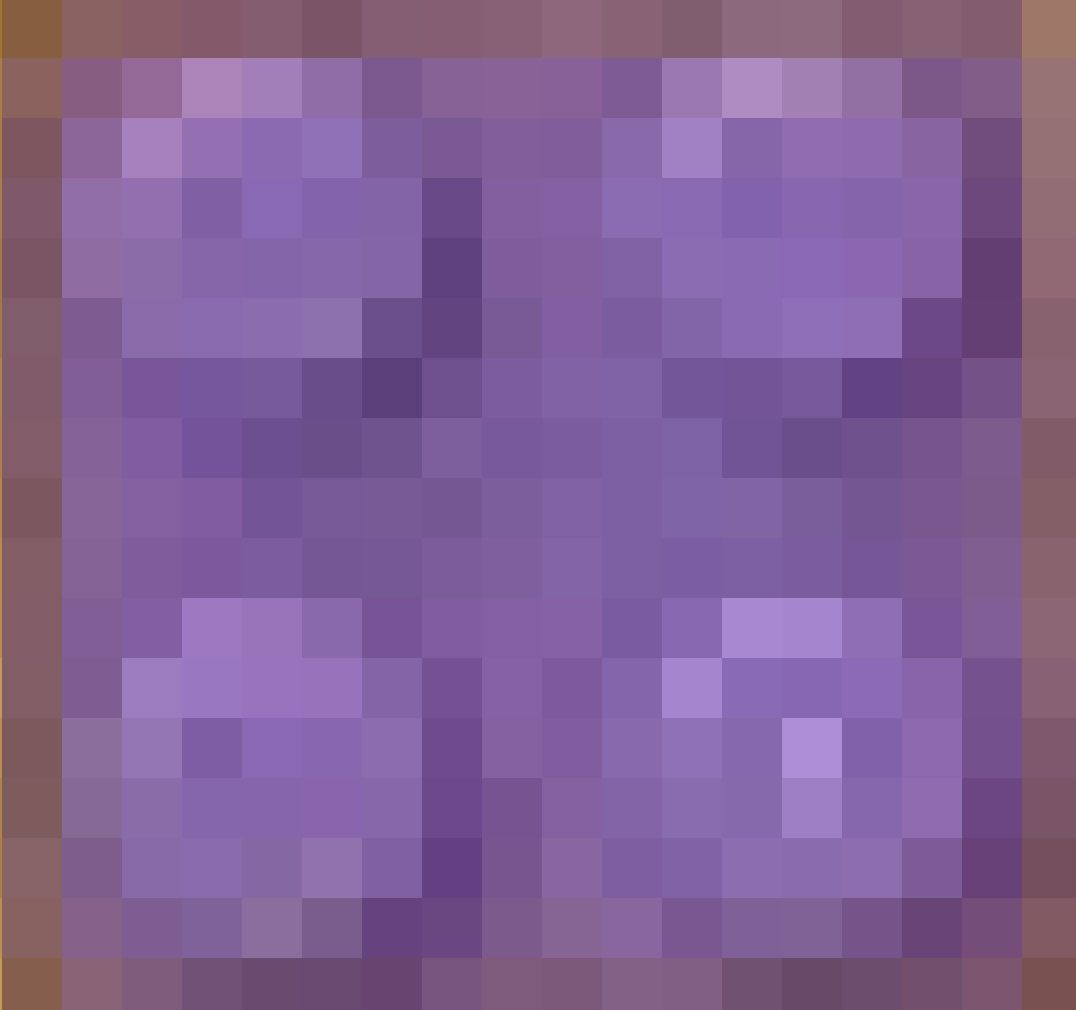
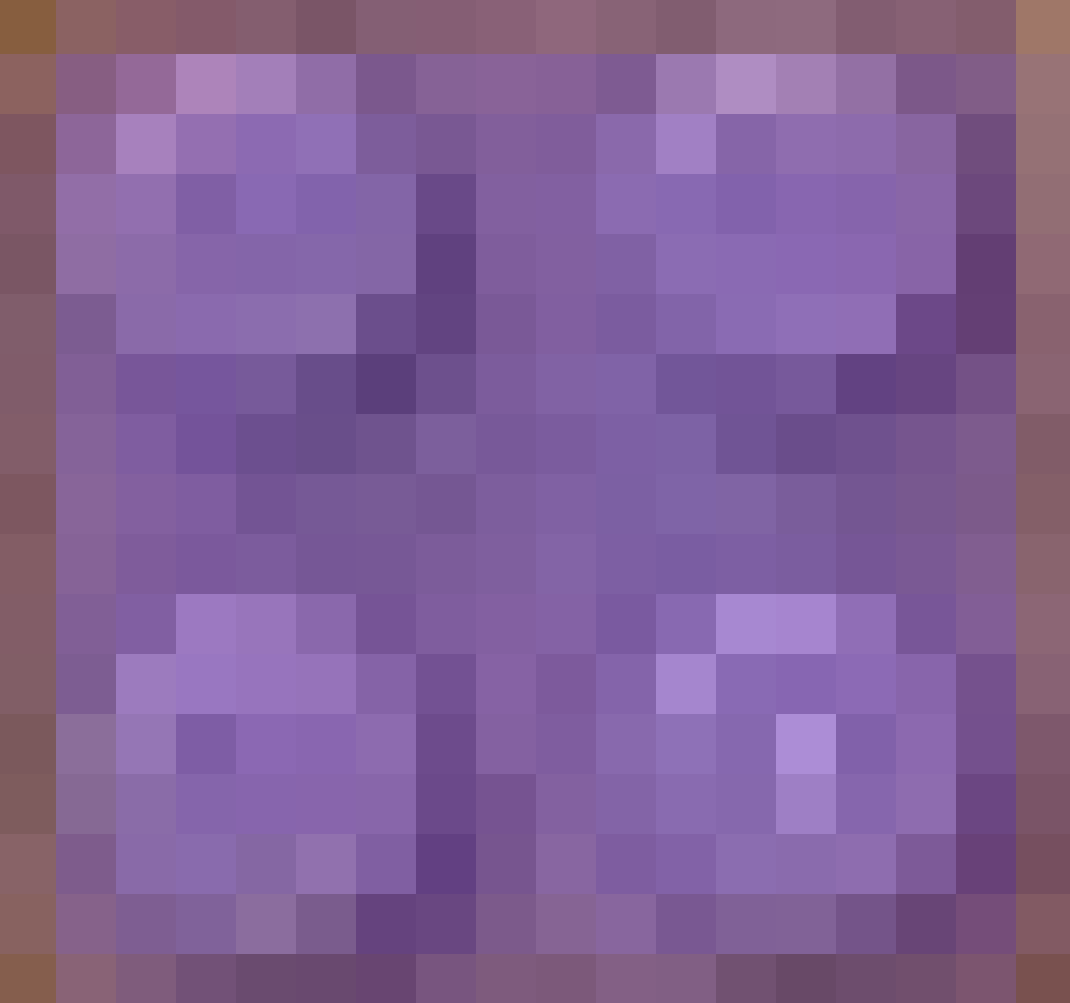
publish website with latest updates

diff --git a/docs/styles.1.css b/docs/styles.1.css
@@ -3,7 +3,7 @@
   box-sizing: border-box;
 }
 
-/* Template: ./b42.png */
+/* Template: ./b26.png */
 
 footer {
     background-color: #333;
@@ -73,7 +73,7 @@ header nav a {
 		/* Basic Styling */
 		html, body {
 			overflow-x: hidden; /* Prevent horizontal scrolling */
-            background-image: url('./b42.png');
+            background-image: url('./b26.png');
             background-size: cover; /* Ensures the image covers the entire viewport */
             background-repeat: no-repeat; /* Prevents the image from repeating */
             background-attachment: fixed; /* Optional: Keeps the background fixed while scrolling */

diff --git a/docs/styles.2.css b/docs/styles.2.css
@@ -3,7 +3,7 @@
   box-sizing: border-box;
 }
 
-/* Template: ./b31.png */
+/* Template: ./b15.png */
 
 footer {
     background-color: #333;
@@ -73,7 +73,7 @@ header nav a {
 		/* Basic Styling */
 		html, body {
 			overflow-x: hidden; /* Prevent horizontal scrolling */
-            background-image: url('./b31.png');
+            background-image: url('./b15.png');
             background-size: cover; /* Ensures the image covers the entire viewport */
             background-repeat: no-repeat; /* Prevents the image from repeating */
             background-attachment: fixed; /* Optional: Keeps the background fixed while scrolling */

diff --git a/docs/styles.3.css b/docs/styles.3.css
@@ -3,7 +3,7 @@
   box-sizing: border-box;
 }
 
-/* Template: ./b12.png */
+/* Template: ./b42.png */
 
 footer {
     background-color: #333;
@@ -73,7 +73,7 @@ header nav a {
 		/* Basic Styling */
 		html, body {
 			overflow-x: hidden; /* Prevent horizontal scrolling */
-            background-image: url('./b12.png');
+            background-image: url('./b42.png');
             background-size: cover; /* Ensures the image covers the entire viewport */
             background-repeat: no-repeat; /* Prevents the image from repeating */
             background-attachment: fixed; /* Optional: Keeps the background fixed while scrolling */

diff --git a/docs/styles.5.css b/docs/styles.5.css
@@ -3,7 +3,7 @@
   box-sizing: border-box;
 }
 
-/* Template: ./b27.png */
+/* Template: ./b12.png */
 
 footer {
     background-color: #333;
@@ -73,7 +73,7 @@ header nav a {
 		/* Basic Styling */
 		html, body {
 			overflow-x: hidden; /* Prevent horizontal scrolling */
-            background-image: url('./b27.png');
+            background-image: url('./b12.png');
             background-size: cover; /* Ensures the image covers the entire viewport */
             background-repeat: no-repeat; /* Prevents the image from repeating */
             background-attachment: fixed; /* Optional: Keeps the background fixed while scrolling */

diff --git a/docs/styles.4.css b/docs/styles.4.css
@@ -3,7 +3,7 @@
   box-sizing: border-box;
 }
 
-/* Template: ./b1.png */
+/* Template: ./b23.png */
 
 footer {
     background-color: #333;
@@ -73,7 +73,7 @@ header nav a {
 		/* Basic Styling */
 		html, body {
 			overflow-x: hidden; /* Prevent horizontal scrolling */
-            background-image: url('./b1.png');
+            background-image: url('./b23.png');
             background-size: cover; /* Ensures the image covers the entire viewport */
             background-repeat: no-repeat; /* Prevents the image from repeating */
             background-attachment: fixed; /* Optional: Keeps the background fixed while scrolling */

diff --git a/docs/styles.6.css b/docs/styles.6.css
@@ -3,7 +3,7 @@
   box-sizing: border-box;
 }
 
-/* Template: ./b9.png */
+/* Template: ./b38.png */
 
 footer {
     background-color: #333;
@@ -73,7 +73,7 @@ header nav a {
 		/* Basic Styling */
 		html, body {
 			overflow-x: hidden; /* Prevent horizontal scrolling */
-            background-image: url('./b9.png');
+            background-image: url('./b38.png');
             background-size: cover; /* Ensures the image covers the entire viewport */
             background-repeat: no-repeat; /* Prevents the image from repeating */
             background-attachment: fixed; /* Optional: Keeps the background fixed while scrolling */
